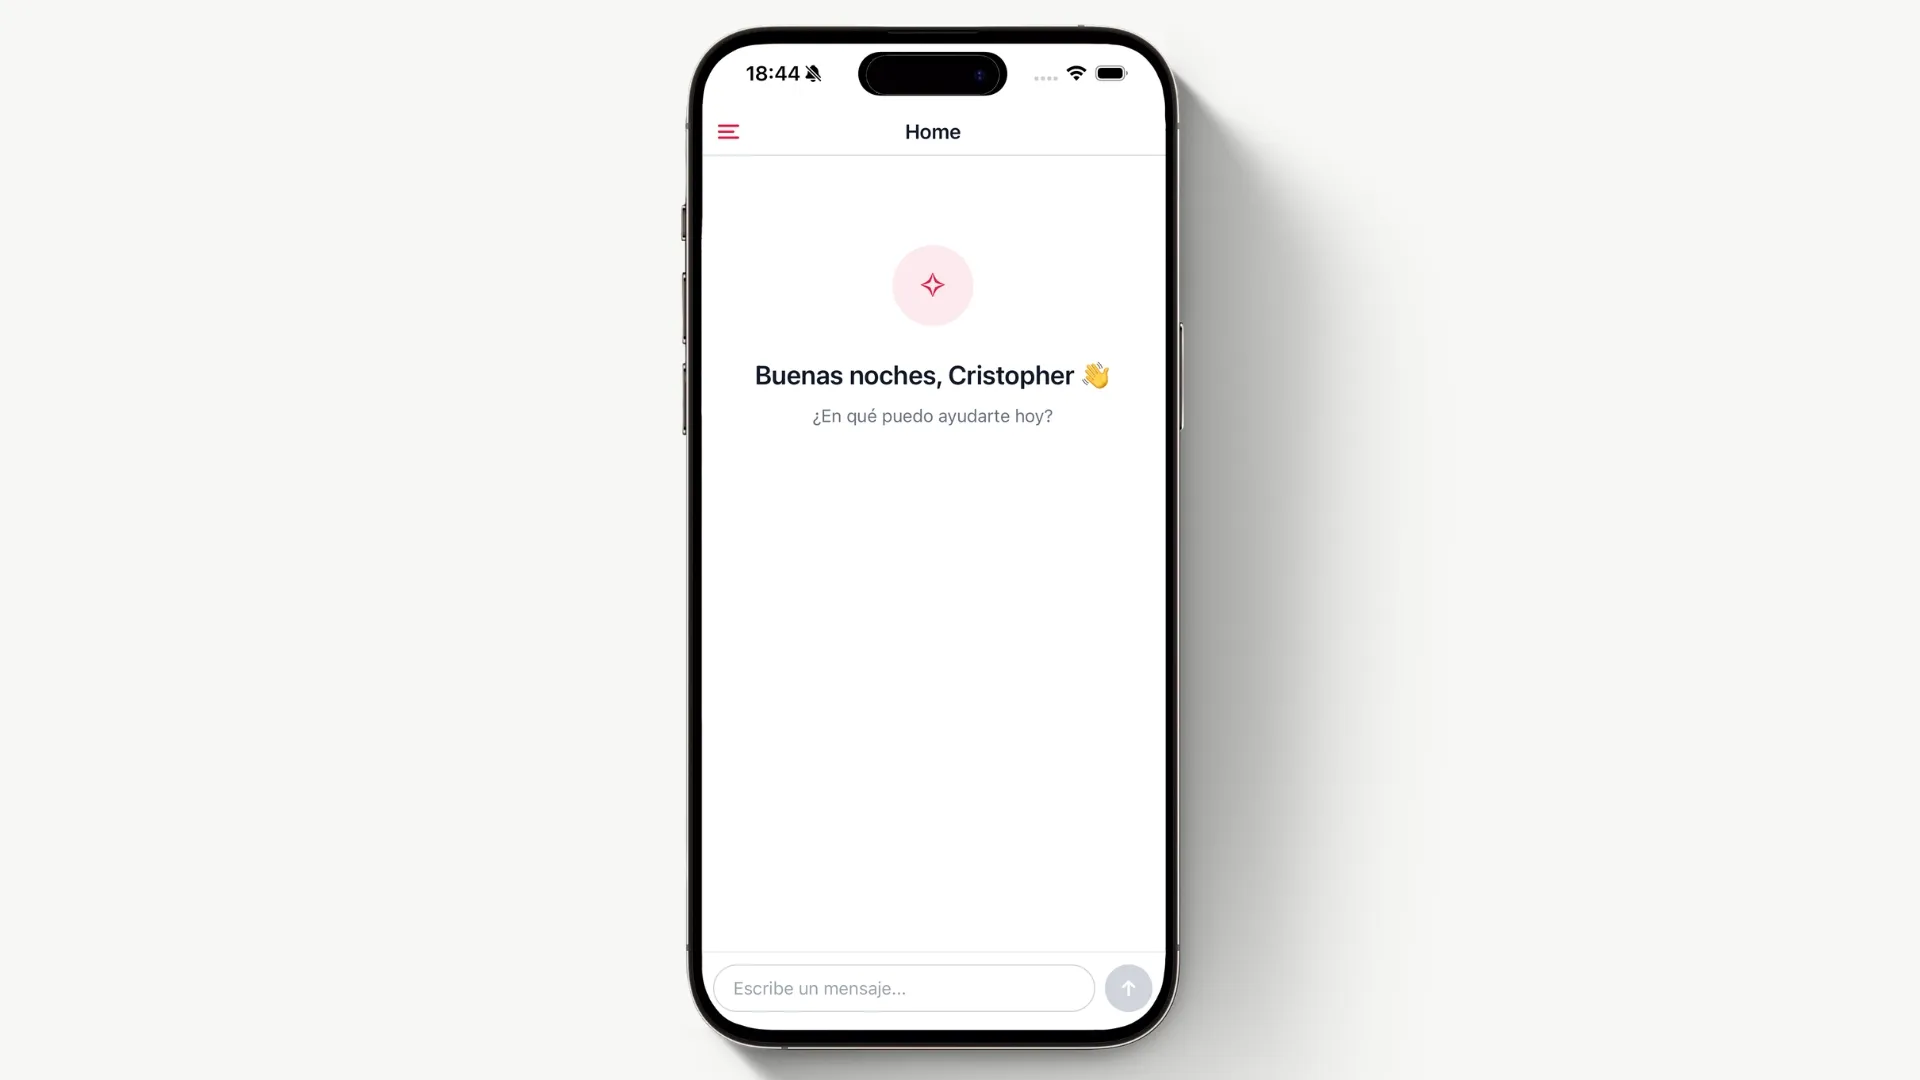
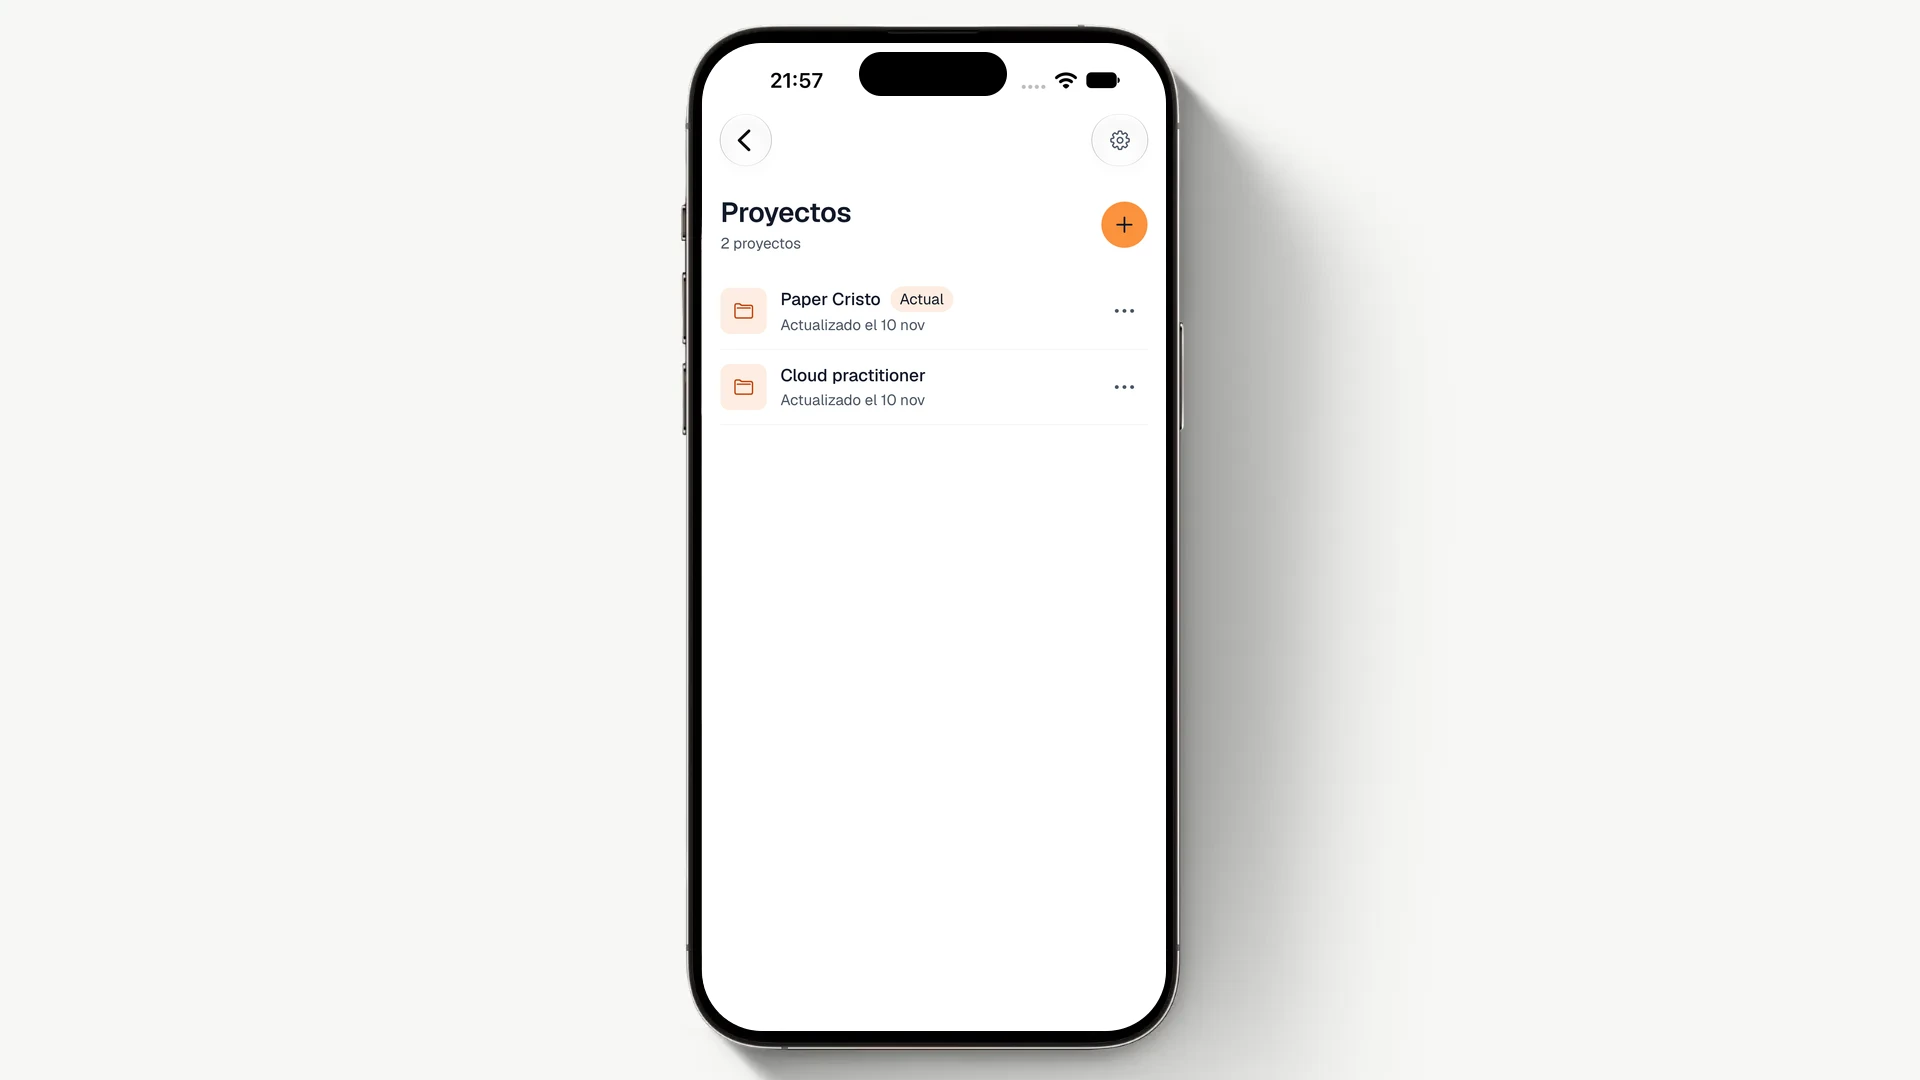
content: update RAG study assistant project and cloud stack

diff --git a/src/i18n/es.ts b/src/i18n/es.ts
@@ -114,16 +114,17 @@ export default {
       },
       'rag-pdf': {
         title: 'Asistente de estudio con RAG',
-        description: 'App móvil para subir tus PDFs y hacer preguntas sobre su contenido en lenguaje natural: las respuestas salen del propio documento gracias a un agente RAG.',
-        context: 'Trabajo de fin del Curso de Especialización en Inteligencia Artificial y Big Data (ITIC Barcelona), desarrollado de forma individual y documentado en un paper académico. Un estudiante sube sus apuntes, libros o artículos y conversa con ellos desde el móvil: resúmenes, flashcards y explicaciones de conceptos generadas a partir de fragmentos recuperados semánticamente.',
+        description: 'App móvil para estudiar con tus PDFs: subes apuntes, libros o artículos a un proyecto y un agente responde citando el documento y la página, y genera resúmenes, flashcards y tests a partir de ellos.',
+        context: 'Trabajo de fin del Curso de Especialización en Inteligencia Artificial y Big Data (ITIC Barcelona), desarrollado de forma individual y documentado en un paper académico. Después de la entrega lo rehíce como una especie de mini NotebookLM: cada proyecto agrupa varios documentos, el chat trabaja sobre todos ellos y las respuestas salen de los fragmentos recuperados, no del conocimiento general del modelo.',
         depthTopics: [
-          'Pipeline de ingesta de PDFs: extracción de texto, chunking con solapamiento y embeddings de 512 dimensiones con nomic-embed-text en local vía Ollama',
-          'Búsqueda semántica en PostgreSQL con pgvector: función SQL con similitud coseno, umbral mínimo y top-k configurables',
-          'Agente con LangGraph y patrón ReAct (tool calling) con herramientas de recuperación, resumen, flashcards y explicación, evolucionado desde un primer grafo con router explícito',
-          'Backend asíncrono con FastAPI y streaming de la respuesta token a token hacia la app mediante Server-Sent Events',
-          'Historial de conversación persistente en base de datos y LLM intercambiable entre Claude Haiku (API de Anthropic) y Gemma en local',
+          'Backend en FastAPI con arquitectura hexagonal: el dominio y los servicios no dependen de ningún proveedor, y cada servicio externo (LLM, embeddings, archivos, usuarios) entra por un adaptador',
+          'Ingesta de PDFs con PyMuPDF: extracción de texto por página, chunking con solapamiento y embeddings de 512 dimensiones con EmbeddingGemma (embeddinggemma-2:270m) en local con Ollama',
+          'Búsqueda híbrida en PostgreSQL: búsqueda de texto completo y semántica con pgvector, combinadas con Reciprocal Rank Fusion (RRF) en una función SQL',
+          'Agente con Strands Agents que decide cuándo buscar, cita cada respuesta con [n] y crea resúmenes, flashcards y tests como herramientas; la respuesta llega a la app en streaming mediante Server-Sent Events',
+          'LLM intercambiable con una sola variable entre Ollama en local, Claude, OpenAI o cualquier API compatible y DeepSeek; lo he usado con Gemma 4 (gemma4:26b) en local vía Ollama y con DeepSeek Flash',
+          'App con Expo y React Native (TypeScript, TanStack Query, Zustand) y login con Amazon Cognito desplegado con Terraform: la app inicia sesión contra Cognito y el backend solo valida el token',
         ],
-        outcome: 'Nota final: 9/10. Trabajo de fin de especialización acompañado de un paper que documenta el diseño, la evolución del agente y sus limitaciones.',
+        outcome: 'Nota final: 9/10, con un paper que documenta el diseño, la evolución del agente y sus limitaciones. La versión actual funciona de principio a fin en local; el siguiente paso es desplegarla en AWS.',
       },
       'bikeshare': {
         title: 'BikeShare',
@@ -147,7 +148,7 @@ export default {
       { label: 'Lenguajes', items: ['Python', 'TypeScript', 'JavaScript', 'SQL'] },
       { label: 'Backend', items: ['FastAPI', 'Pydantic', 'Redis', 'pytest', 'uv'] },
       { label: 'Bases de datos', items: ['PostgreSQL', 'pgvector', 'Supabase', 'SQLAlchemy', 'Alembic'] },
-      { label: 'Cloud e infraestructura', items: ['Docker', 'GitHub Actions', 'AWS (VPC, IAM, EC2, S3)'] },
+      { label: 'Cloud e infraestructura', items: ['Docker', 'Terraform', 'AWS (IAM, Lambda, S3, RDS, DynamoDB, Cognito, Bedrock)'] },
       {
         label: 'Herramientas',
         items: [

diff --git a/src/i18n/ca.ts b/src/i18n/ca.ts
@@ -114,16 +114,17 @@ export default {
       },
       'rag-pdf': {
         title: "Assistent d'estudi amb RAG",
-        description: 'App mòbil per pujar els teus PDFs i fer preguntes sobre el seu contingut en llenguatge natural: les respostes surten del mateix document gràcies a un agent RAG.',
-        context: "Treball de final del Curs d'Especialització en Intel·ligència Artificial i Big Data (ITIC Barcelona), desenvolupat de manera individual i documentat en un paper acadèmic. Un estudiant puja els seus apunts, llibres o articles i hi conversa des del mòbil: resums, flashcards i explicacions de conceptes generades a partir de fragments recuperats semànticament.",
+        description: 'App mòbil per estudiar amb els teus PDFs: puges apunts, llibres o articles a un projecte i un agent respon citant el document i la pàgina, i en genera resums, flashcards i tests.',
+        context: "Treball de final del Curs d'Especialització en Intel·ligència Artificial i Big Data (ITIC Barcelona), desenvolupat de manera individual i documentat en un paper acadèmic. Després del lliurament el vaig refer com una mena de mini NotebookLM: cada projecte agrupa diversos documents, el xat treballa sobre tots ells i les respostes surten dels fragments recuperats, no del coneixement general del model.",
         depthTopics: [
-          "Pipeline d'ingesta de PDFs: extracció de text, chunking amb solapament i embeddings de 512 dimensions amb nomic-embed-text en local via Ollama",
-          'Cerca semàntica a PostgreSQL amb pgvector: funció SQL amb similitud cosinus, llindar mínim i top-k configurables',
-          "Agent amb LangGraph i patró ReAct (tool calling) amb eines de recuperació, resum, flashcards i explicació, evolucionat a partir d'un primer graf amb router explícit",
-          "Backend asíncron amb FastAPI i streaming de la resposta token a token cap a l'app mitjançant Server-Sent Events",
-          "Historial de conversa persistent a la base de dades i LLM intercanviable entre Claude Haiku (API d'Anthropic) i Gemma en local",
+          'Backend amb FastAPI i arquitectura hexagonal: el domini i els serveis no depenen de cap proveïdor, i cada servei extern (LLM, embeddings, fitxers, usuaris) hi entra per un adaptador',
+          'Ingesta de PDFs amb PyMuPDF: extracció de text per pàgina, chunking amb solapament i embeddings de 512 dimensions amb EmbeddingGemma (embeddinggemma-2:270m) en local amb Ollama',
+          'Cerca híbrida a PostgreSQL: cerca de text complet i semàntica amb pgvector, combinades amb Reciprocal Rank Fusion (RRF) en una funció SQL',
+          "Agent amb Strands Agents que decideix quan cercar, cita cada resposta amb [n] i crea resums, flashcards i tests com a eines; la resposta arriba a l'app en streaming mitjançant Server-Sent Events",
+          "LLM intercanviable amb una sola variable entre Ollama en local, Claude, OpenAI o qualsevol API compatible i DeepSeek; l'he fet servir amb Gemma 4 (gemma4:26b) en local via Ollama i amb DeepSeek Flash",
+          "App amb Expo i React Native (TypeScript, TanStack Query, Zustand) i inici de sessió amb Amazon Cognito desplegat amb Terraform: l'app inicia sessió contra Cognito i el backend només valida el token",
         ],
-        outcome: "Nota final: 9/10. Treball de final d'especialització acompanyat d'un paper que documenta el disseny, l'evolució de l'agent i les seves limitacions.",
+        outcome: "Nota final: 9/10, amb un paper que documenta el disseny, l'evolució de l'agent i les seves limitacions. La versió actual funciona de cap a cap en local; el següent pas és desplegar-la a AWS.",
       },
       'bikeshare': {
         title: 'BikeShare',
@@ -147,7 +148,7 @@ export default {
       { label: 'Llenguatges', items: ['Python', 'TypeScript', 'JavaScript', 'SQL'] },
       { label: 'Backend', items: ['FastAPI', 'Pydantic', 'Redis', 'pytest', 'uv'] },
       { label: 'Bases de dades', items: ['PostgreSQL', 'pgvector', 'Supabase', 'SQLAlchemy', 'Alembic'] },
-      { label: 'Cloud i infraestructura', items: ['Docker', 'GitHub Actions', 'AWS (VPC, IAM, EC2, S3)'] },
+      { label: 'Cloud i infraestructura', items: ['Docker', 'Terraform', 'AWS (IAM, Lambda, S3, RDS, DynamoDB, Cognito, Bedrock)'] },
       {
         label: 'Eines',
         items: [

diff --git a/src/i18n/en.ts b/src/i18n/en.ts
@@ -114,16 +114,17 @@ export default {
       },
       'rag-pdf': {
         title: 'RAG study assistant',
-        description: 'Mobile app to upload your PDFs and ask questions about their content in natural language: answers come from the document itself, powered by a RAG agent.',
-        context: 'Final project of the Specialization Course in Artificial Intelligence and Big Data (ITIC Barcelona), built individually and documented in an academic paper. Students upload their notes, books or articles and chat with them from their phone: summaries, flashcards and concept explanations generated from semantically retrieved passages.',
+        description: 'Mobile app to study with your PDFs: upload notes, books or articles to a project and an agent answers citing the document and page, and generates summaries, flashcards and quizzes from them.',
+        context: "Final project of the Specialization Course in Artificial Intelligence and Big Data (ITIC Barcelona), built individually and documented in an academic paper. After submitting it I rebuilt it as a kind of mini NotebookLM: each project groups several documents, the chat works across all of them and answers come from the retrieved passages, not from the model's general knowledge.",
         depthTopics: [
-          'PDF ingestion pipeline: text extraction, overlapping chunking and 512-dimension embeddings with nomic-embed-text running locally on Ollama',
-          'Semantic search in PostgreSQL with pgvector: a SQL function using cosine similarity with configurable threshold and top-k',
-          'LangGraph agent using the ReAct pattern (tool calling) with retrieval, summary, flashcard and explanation tools, evolved from an initial graph with an explicit router',
-          'Async FastAPI backend streaming the answer token by token to the app over Server-Sent Events',
-          'Conversation history persisted in the database and a swappable LLM: Claude Haiku (Anthropic API) or Gemma running locally',
+          'FastAPI backend with hexagonal architecture: the domain and services depend on no provider, and every external service (LLM, embeddings, files, users) plugs in through an adapter',
+          'PDF ingestion with PyMuPDF: per-page text extraction, overlapping chunking and 512-dimension embeddings with EmbeddingGemma (embeddinggemma-2:270m) running locally on Ollama',
+          'Hybrid search in PostgreSQL: full-text and semantic search with pgvector, fused with Reciprocal Rank Fusion (RRF) in a SQL function',
+          'Strands Agents agent that decides when to search, cites every answer with [n] and creates summaries, flashcards and quizzes as tools; the answer streams to the app over Server-Sent Events',
+          'LLM swappable with a single variable between Ollama running locally, Claude, OpenAI or any compatible API, and DeepSeek; I have used it with Gemma 4 (gemma4:26b) locally on Ollama and with DeepSeek Flash',
+          'Expo and React Native app (TypeScript, TanStack Query, Zustand) with sign-in through Amazon Cognito deployed with Terraform: the app signs in against Cognito and the backend only validates the token',
         ],
-        outcome: 'Final grade: 9/10. Final specialization project, accompanied by a paper documenting the design, the evolution of the agent and its limitations.',
+        outcome: 'Final grade: 9/10, with a paper documenting the design, the evolution of the agent and its limitations. The current version works end to end locally; the next step is deploying it to AWS.',
       },
       'bikeshare': {
         title: 'BikeShare',
@@ -147,7 +148,7 @@ export default {
       { label: 'Languages', items: ['Python', 'TypeScript', 'JavaScript', 'SQL'] },
       { label: 'Backend', items: ['FastAPI', 'Pydantic', 'Redis', 'pytest', 'uv'] },
       { label: 'Databases', items: ['PostgreSQL', 'pgvector', 'Supabase', 'SQLAlchemy', 'Alembic'] },
-      { label: 'Cloud & infrastructure', items: ['Docker', 'GitHub Actions', 'AWS (VPC, IAM, EC2, S3)'] },
+      { label: 'Cloud & infrastructure', items: ['Docker', 'Terraform', 'AWS (IAM, Lambda, S3, RDS, DynamoDB, Cognito, Bedrock)'] },
       {
         label: 'Tools',
         items: [

diff --git a/src/data/projects.ts b/src/data/projects.ts
@@ -14,16 +14,17 @@ interface ProjectMeta {
 // indexado por `slug`.
 export const projectMeta = [
   {
+    slug: 'rag-pdf',
+    stack: ['Python', 'FastAPI', 'Strands Agents', 'PostgreSQL', 'pgvector', 'Ollama', 'Amazon Cognito', 'Terraform', 'TypeScript', 'React Native', 'Expo'],
+    repoHref: 'https://github.com/cristoge/TIC_project',
+    demoHref: 'https://youtu.be/20UHkDUTeqA',
+    image: '/rag2.webp',
+  },
+  {
     slug: 'safe-reply',
     stack: ['Python', 'FastAPI', 'scikit-learn', 'PostgreSQL', 'pgvector', 'SQLAlchemy', 'Alembic', 'Redis', 'Pydantic', 'pytest', 'Docker'],
     repoHref: 'https://github.com/cristoge/rag_revision',
     image: '/docs.webp',
-  },
-  {
-    slug: 'rag-pdf',
-    stack: ['Python', 'FastAPI', 'LangGraph', 'LangChain', 'PostgreSQL', 'pgvector', 'Supabase', 'Ollama', 'React Native'],
-    repoHref: 'https://github.com/cristoge/TIC_project',
-    image: '/rag2.webp',
   },
   {
     slug: 'bikeshare',
